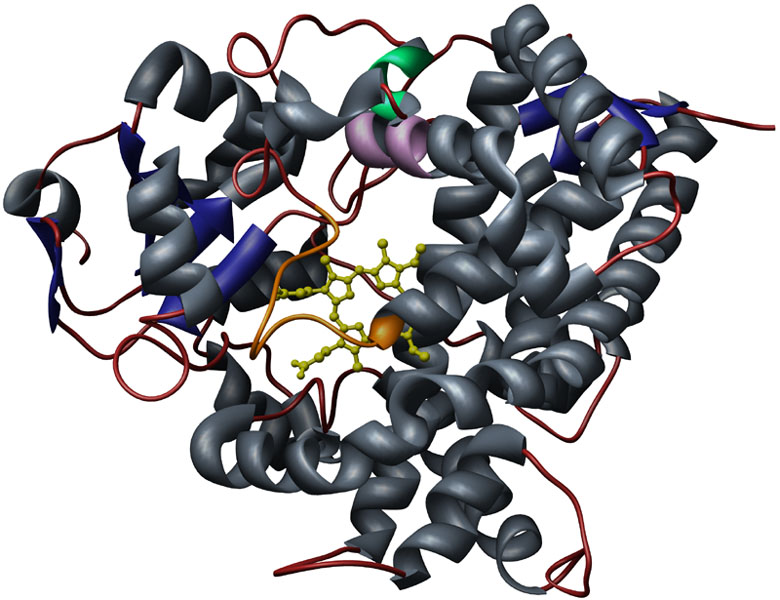
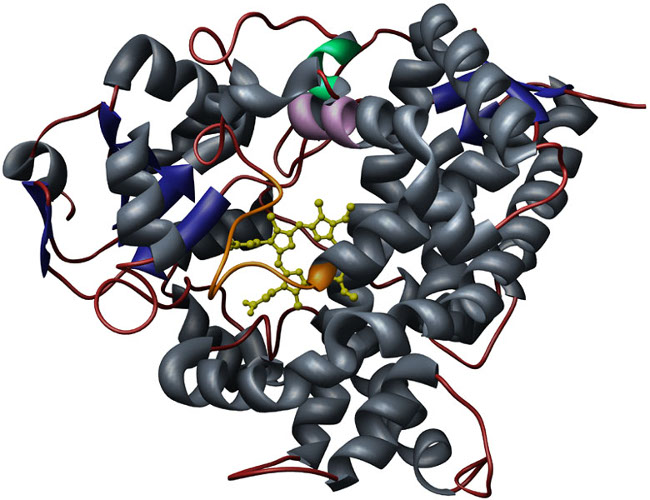
first draft

diff --git a/thesis/chapters/chapter2.tex b/thesis/chapters/chapter2.tex
@@ -36,7 +36,7 @@ The preliminary steps of data preprocessing typically requires data cleaning as 
 \begin{figure}[h,t]
   \caption{Data download and preparation}
   \centering
-   \includegraphics[width=1\textwidth]{}
+   \includegraphics[width=1\textwidth]{../img/Dataset_prep.png}
 \end{figure}
 
 
@@ -50,7 +50,7 @@ For each isozyme, the number of active inhibitors was far outnumbered by the num
 \begin{figure}[h,t]
   \caption{Isozyme data set preparation}
   \centering
-   \includegraphics[width=1\textwidth]{}
+   \includegraphics[width=1\textwidth]{../img/Isozyme_Data_Prep.png}
 \end{figure}
 
 Next the script randomly shuffled the balanced datasets and split them into a training set and a test set. The training set held 80\% of the original values and the test set held 20\% of the original values. The split was not based on activity score. The ratio of active/inactive in each split was inspected to check if they were still acceptably balanced.
@@ -74,9 +74,9 @@ In situations where the data does not have a Gaussian (normal) distribution, sim
 At this point a complete dataset is assembled for each isozyme that is balanced for the number of active and inactive inhibitors, and that dataset has been further subdivided into a traing set and a test set. The following section describes the different methods of feature selection, normalization and classification algorithms used in this study.
 
 \begin{figure}[h,t]
-  \caption{Supervised Classification Model Training and Validation Workflow}
+  \caption{Supervised Classification Model Training and Validation}
   \centering
-   \includegraphics[width=1\textwidth]{}
+   \includegraphics[width=1\textwidth]{../img/Model_validation.png}
 \end{figure}
 
 \subsection{Binary QSAR in the Molecular Operating Environment}
@@ -168,12 +168,6 @@ The true negative rate is also know as the Specificity of a classification, and 
 
 %An increased sensitivity is always accompanied by decrease specificity. A ROC curve is plotted as $sensitivity$ versus $1-specificity$, at varied discrimination cut-offs. An area under the ROC curve (AUROC) close to 1 means that the classifier can perfectly separate the two classes, whereas an area 0.5 indicated that the classifier performs no better than random guessing.\cite{Lapins2013}
 
-
-\begin{figure}[h,t]
-  \caption{General Data Analysis Workflow}
-  \centering
-   \includegraphics[width=1\textwidth]{}
-\end{figure}
 
 \subsubsection{Binary QSAR after PLS of descriptors}
 The test sets were loaded and the washed structures were appended to the .csv files. All models were evaluated using the menu driven workflow in MOE and the classification probabilities were appended to the database file and saved as a .csv.  

diff --git a/thesis/chapters/chapter1.tex b/thesis/chapters/chapter1.tex
@@ -24,7 +24,7 @@ One of the largest and most functionally diverse protein superfamilies is the cy
 \begin{figure}[H]
   \caption{Ribbon Diagram of CYP1A2}
   \centering
-   \includegraphics[width=1\textwidth]{../img/CYP1A2_PDB.png}
+   \includegraphics[width=1\textwidth]{../img/CYP1A2_PDB.jpg}
 \end{figure}
 
 \begin{figure}[h,t]
